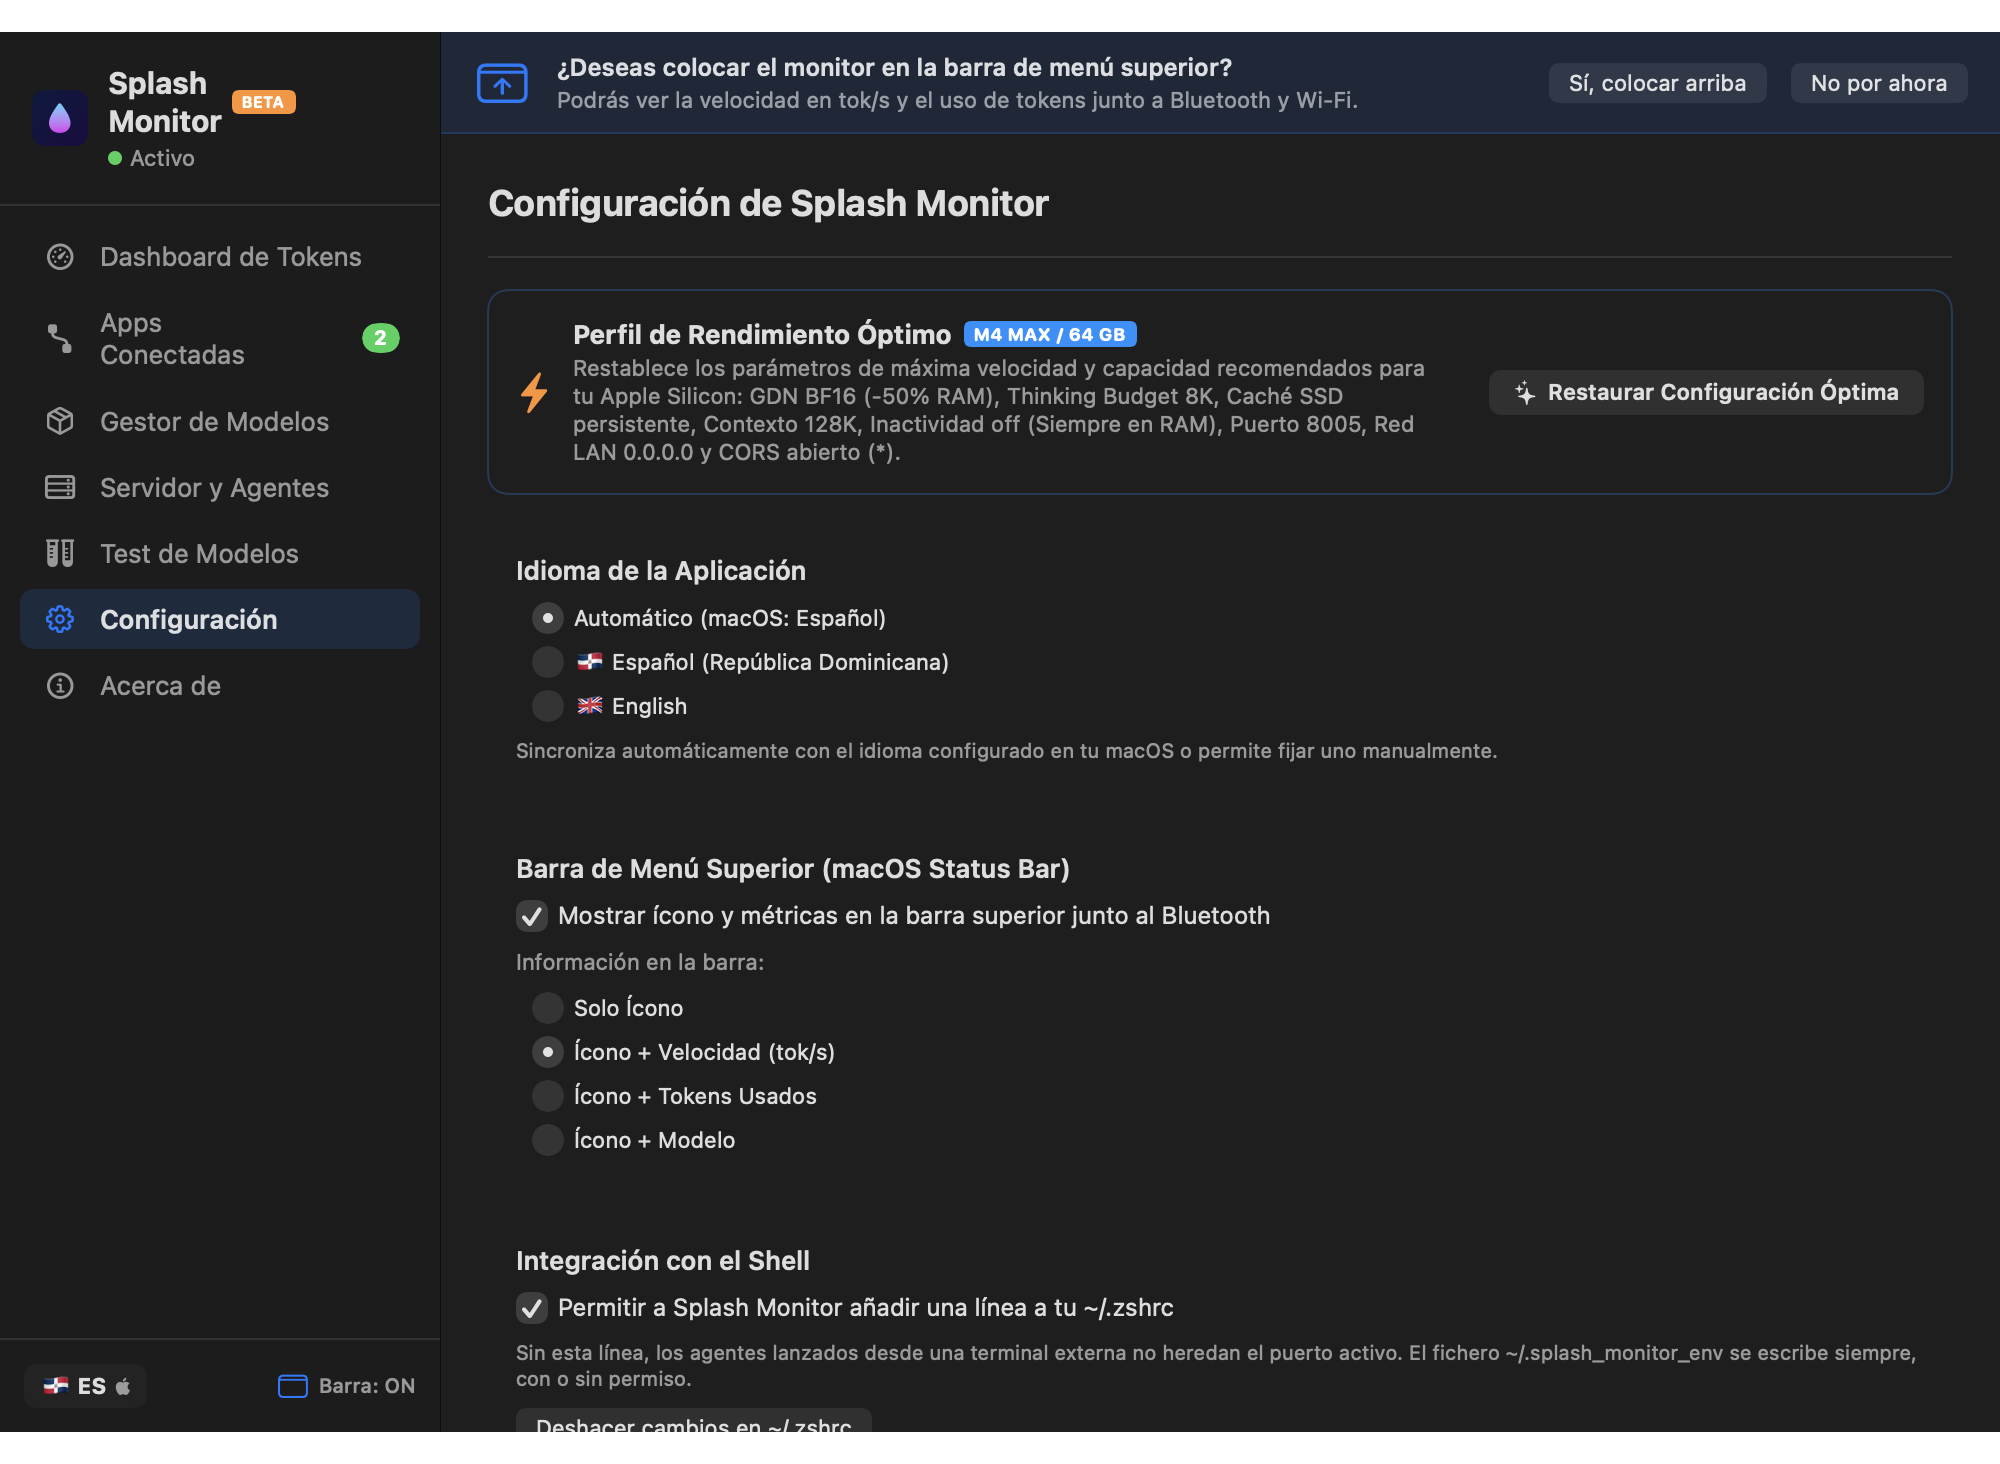
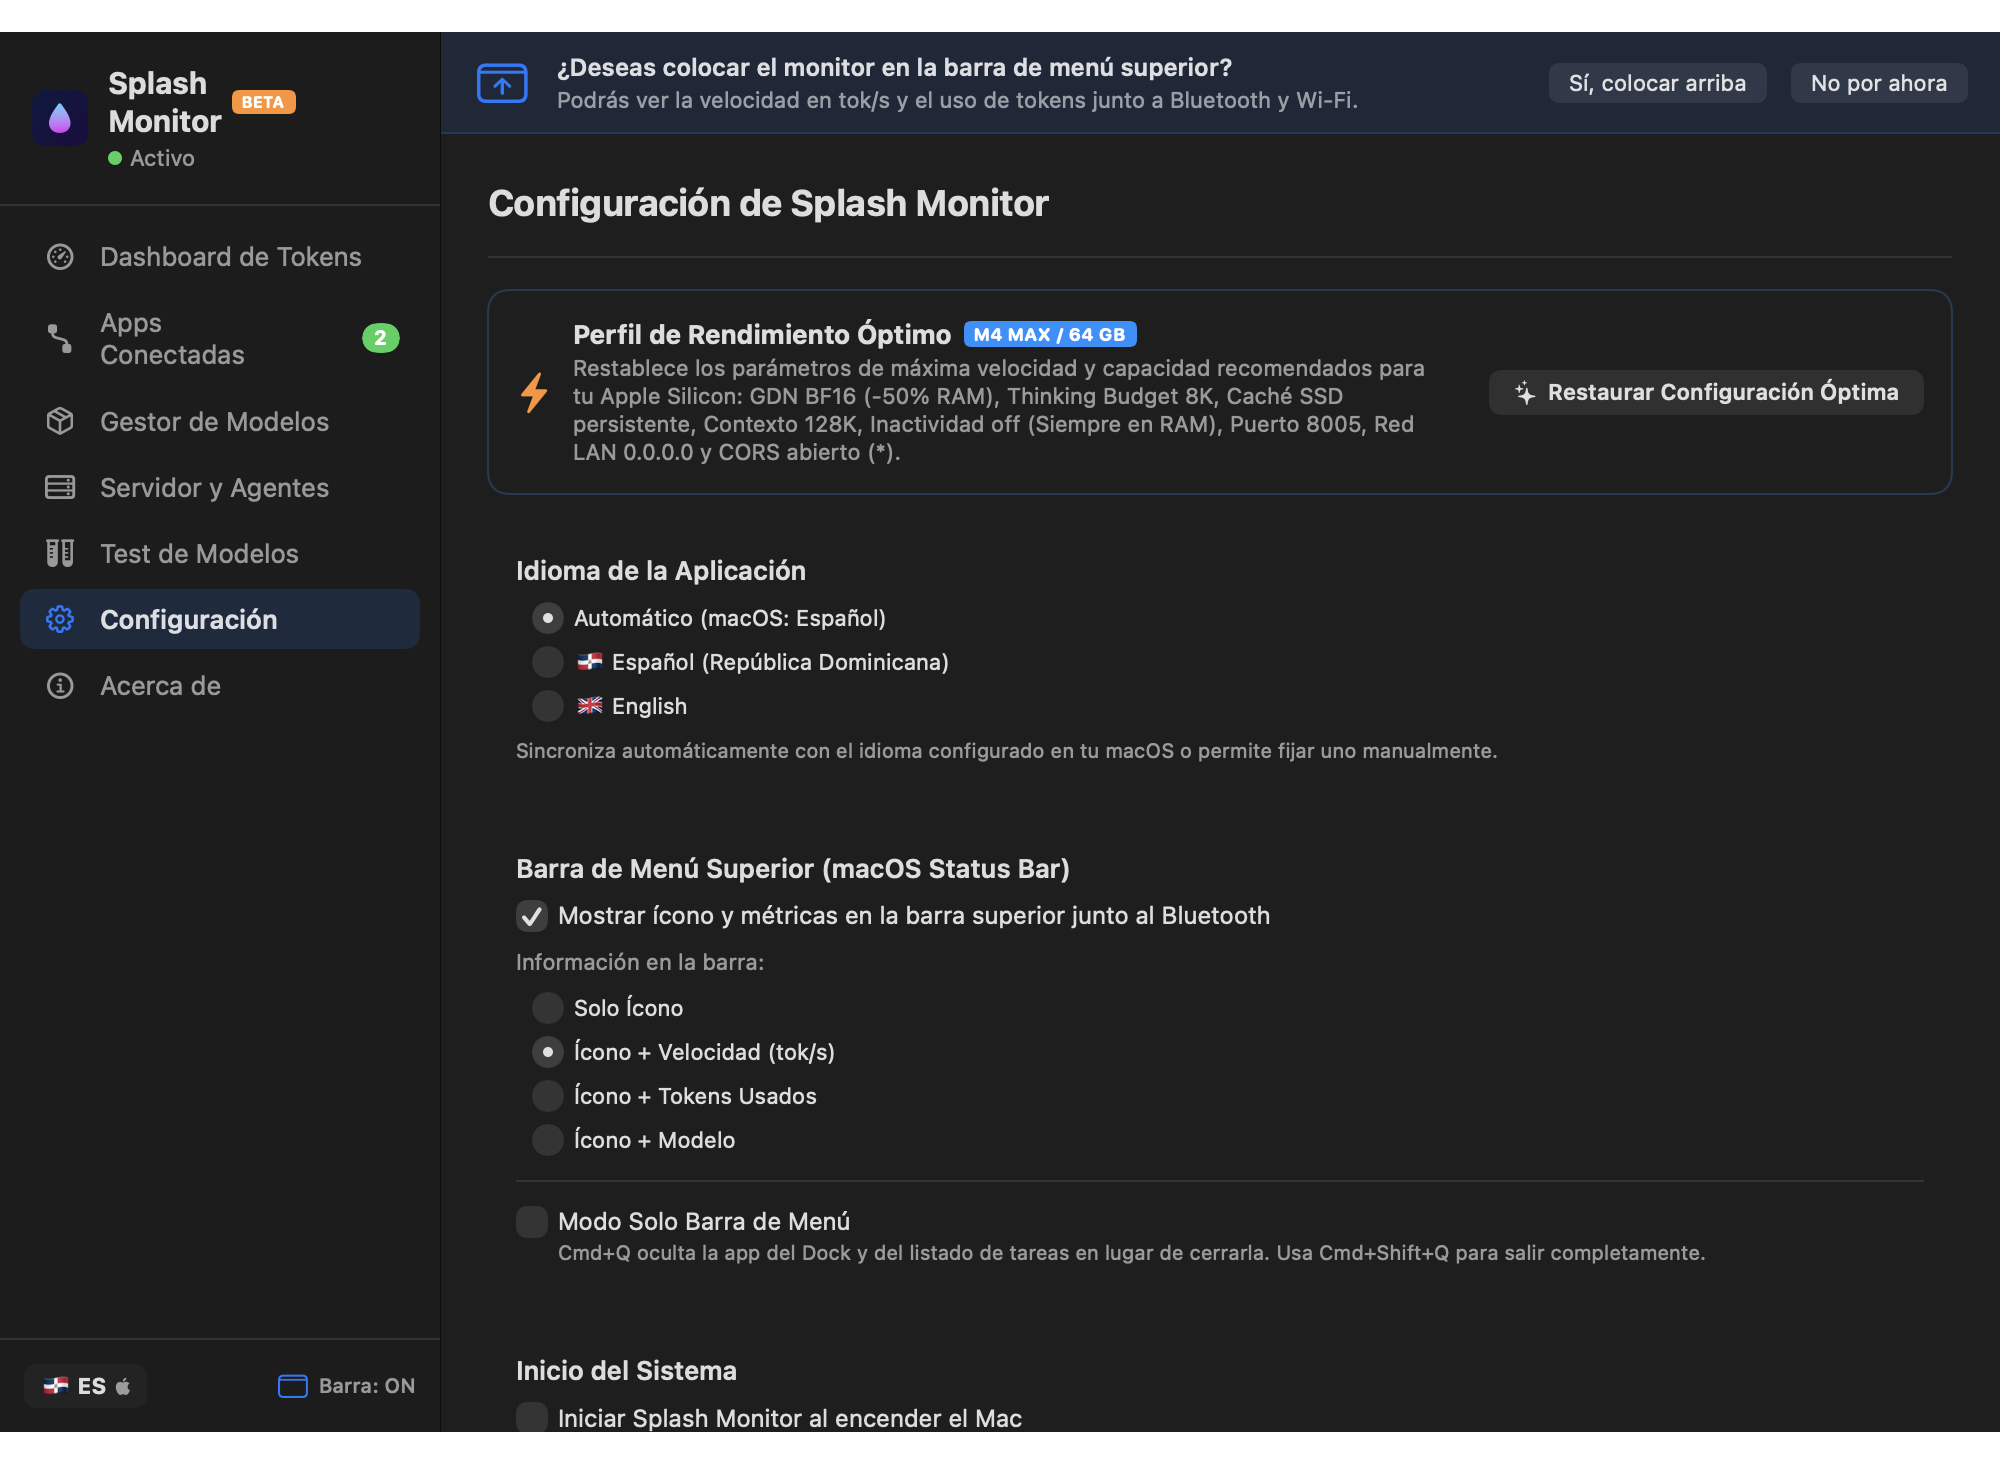
feat: notificaciones nativas de macOS e inicio automático al encender el Mac
- Agrega NotificationService con soporte para UNUserNotificationCenter:
  * Alertas de servidor activo con modelo y puerto.
  * Alertas de parada inesperada del motor Splash.
  * Alerta de presión de memoria unificada crítica del sistema.
  * Manejo seguro en entornos de prueba / CLI sin app bundle.
- Agrega AutoLaunchService utilizando SMAppService.mainApp (macOS 13+).
- Añade tarjetas de configuración en MainWindowView para activar/desactivar notificaciones y arranque al inicio de sesión.
- Agrega tests unitarios en NotificationAndAutoLaunchTests (100% pasando).

Changed region(s): [[0.248, 0.8299, 0.961, 0.9836]]

diff --git a/Sources/SplashMonitor/Services/NotificationService.swift b/Sources/SplashMonitor/Services/NotificationService.swift
@@ -1,0 +1,122 @@
+import Foundation
+import UserNotifications
+import AppKit
+
+/// Servicio centralizado de notificaciones locales de macOS para Splash Monitor.
+/// Maneja alertas de estado del servidor, avisos de modelos y presión de memoria crítica.
+@MainActor
+public final class NotificationService: ObservableObject {
+    public static let shared = NotificationService()
+    
+    private var center: UNUserNotificationCenter? {
+        guard let bundleId = Bundle.main.bundleIdentifier, !bundleId.isEmpty else { return nil }
+        if ProcessInfo.processInfo.processName.contains("xctest") ||
+           ProcessInfo.processInfo.environment["XCTestConfigurationFilePath"] != nil {
+            return nil
+        }
+        return UNUserNotificationCenter.current()
+    }
+    private let enabledKey = "systemNotificationsEnabled"
+    
+    @Published public var isNotificationsEnabled: Bool {
+        didSet {
+            UserDefaults.standard.set(isNotificationsEnabled, forKey: enabledKey)
+            if isNotificationsEnabled {
+                requestAuthorization()
+            }
+        }
+    }
+    
+    public init() {
+        // Habilitado por defecto si no ha sido configurado previamente
+        if UserDefaults.standard.object(forKey: enabledKey) == nil {
+            self.isNotificationsEnabled = true
+        } else {
+            self.isNotificationsEnabled = UserDefaults.standard.bool(forKey: enabledKey)
+        }
+        
+        if isNotificationsEnabled {
+            requestAuthorization()
+        }
+    }
+    
+    /// Solicita autorización para mostrar notificaciones al usuario si aún no está otorgada.
+    public func requestAuthorization() {
+        center?.requestAuthorization(options: [.alert, .sound, .badge]) { granted, error in
+            if let error = error {
+                print("⚠ [NotificationService] Error solicitando permisos: \(error.localizedDescription)")
+            }
+        }
+    }
+    
+    /// Envía una notificación cuando el servidor inicia exitosamente.
+    public func notifyServerStarted(model: String, port: Int) {
+        guard isNotificationsEnabled else { return }
+        
+        let content = UNMutableNotificationContent()
+        content.title = "Splash Monitor"
+        let isSpanish = Localization.shared.isSpanish
+        content.subtitle = isSpanish ? "Servidor Activo 🟢" : "Server Active 🟢"
+        
+        let modelShort = model.components(separatedBy: "/").last ?? model
+        let cleanModel = modelShort
+            .replacingOccurrences(of: "-Splash", with: "")
+            .replacingOccurrences(of: "-GGUF", with: "")
+        
+        content.body = isSpanish
+            ? "Modelo \(cleanModel) listo en puerto :\(port)."
+            : "Model \(cleanModel) ready on port :\(port)."
+        content.sound = .default
+        
+        postNotification(id: "splash.server.started", content: content)
+    }
+    
+    /// Envía una notificación cuando el servidor se detiene o se cae inesperadamente.
+    public func notifyServerStopped(reason: String? = nil, isUnexpected: Bool = false) {
+        guard isNotificationsEnabled else { return }
+        
+        let content = UNMutableNotificationContent()
+        content.title = "Splash Monitor"
+        let isSpanish = Localization.shared.isSpanish
+        
+        if isUnexpected {
+            content.subtitle = isSpanish ? "⚠ Servidor Detenido Inesperadamente" : "⚠ Server Stopped Unexpectedly"
+            content.body = reason ?? (isSpanish ? "El proceso de Splash se cerró de forma no programada." : "The Splash process terminated unexpectedly.")
+        } else {
+            content.subtitle = isSpanish ? "Servidor Detenido" : "Server Stopped"
+            content.body = reason ?? (isSpanish ? "El servidor Splash ha sido detenido." : "Splash server has been stopped.")
+        }
+        content.sound = isUnexpected ? .defaultCritical : .default
+        
+        postNotification(id: "splash.server.stopped", content: content)
+    }
+    
+    /// Envía una alerta cuando el sistema entra en presión de memoria crítica.
+    public func notifyMemoryPressureCritical() {
+        guard isNotificationsEnabled else { return }
+        
+        let content = UNMutableNotificationContent()
+        content.title = "Splash Monitor"
+        let isSpanish = Localization.shared.isSpanish
+        content.subtitle = isSpanish ? "🚨 Presión de Memoria Crítica" : "🚨 Critical Memory Pressure"
+        content.body = isSpanish
+            ? "macOS reporta agotamiento de memoria unificada. El motor Splash se puso en reposo preventivo."
+            : "macOS reports unified memory exhaustion. Splash engine entered preventive standby."
+        content.sound = .defaultCritical
+        
+        postNotification(id: "splash.memory.critical", content: content)
+    }
+    
+    private func postNotification(id: String, content: UNMutableNotificationContent) {
+        let request = UNNotificationRequest(
+            identifier: "\(id).\(Date().timeIntervalSince1970)",
+            content: content,
+            trigger: nil // Inmediato
+        )
+        center?.add(request) { error in
+            if let error = error {
+                print("⚠ [NotificationService] Fallo enviando notificación: \(error.localizedDescription)")
+            }
+        }
+    }
+}

diff --git a/Sources/SplashMonitor/Views/MainWindowView.swift b/Sources/SplashMonitor/Views/MainWindowView.swift
@@ -7,6 +7,8 @@ public struct MainWindowView: View {
     @AppStorage("showMenuBarIcon") private var showMenuBarIcon: Bool = true
     @AppStorage("hasAskedAboutMenuBar") private var hasAskedAboutMenuBar: Bool = false
     @AppStorage("menuBarOnlyMode") private var menuBarOnlyMode: Bool = false
+    @ObservedObject private var notifications = NotificationService.shared
+    @ObservedObject private var autoLaunch = AutoLaunchService.shared
     @State private var selectedSidebarItem: SidebarItem = .dashboard
     @State private var showOptimalAppliedFeedback: Bool = false
 
@@ -642,6 +644,53 @@ public struct MainWindowView: View {
                     }
                     .font(.system(size: 12))
                 }
+            }
+            .padding(14)
+            .background(Color(nsColor: .controlBackgroundColor))
+            .cornerRadius(10)
+            
+            // Inicio Automático al Encender el Mac (Launch at Login)
+            VStack(alignment: .leading, spacing: 8) {
+                Text(loc.isSpanish ? "Inicio del Sistema" : "System Startup")
+                    .font(.system(size: 13, weight: .semibold))
+                
+                Toggle(isOn: Binding(
+                    get: { autoLaunch.isEnabled },
+                    set: { autoLaunch.setEnabled($0) }
+                )) {
+                    VStack(alignment: .leading, spacing: 2) {
+                        Text(loc.isSpanish ? "Iniciar Splash Monitor al encender el Mac" : "Launch Splash Monitor at startup")
+                            .font(.system(size: 12))
+                        Text(loc.isSpanish
+                             ? "Ejecuta automáticamente la aplicación en segundo plano al iniciar sesión en macOS."
+                             : "Automatically launch the app in background when logging in to macOS.")
+                            .font(.system(size: 10))
+                            .foregroundColor(.secondary)
+                    }
+                }
+                .font(.system(size: 12))
+            }
+            .padding(14)
+            .background(Color(nsColor: .controlBackgroundColor))
+            .cornerRadius(10)
+            
+            // Notificaciones de macOS
+            VStack(alignment: .leading, spacing: 8) {
+                Text(loc.isSpanish ? "Notificaciones de macOS" : "macOS Notifications")
+                    .font(.system(size: 13, weight: .semibold))
+                
+                Toggle(isOn: $notifications.isNotificationsEnabled) {
+                    VStack(alignment: .leading, spacing: 2) {
+                        Text(loc.isSpanish ? "Alertas y notificaciones del sistema" : "System alerts and notifications")
+                            .font(.system(size: 12))
+                        Text(loc.isSpanish
+                             ? "Recibe avisos cuando el servidor se inicie, se detenga inesperadamente o si la memoria unificada del Mac entra en presión crítica."
+                             : "Receive alerts when the server starts, stops unexpectedly, or if unified memory enters critical pressure.")
+                            .font(.system(size: 10))
+                            .foregroundColor(.secondary)
+                    }
+                }
+                .font(.system(size: 12))
             }
             .padding(14)
             .background(Color(nsColor: .controlBackgroundColor))

diff --git a/Sources/SplashMonitor/Services/SplashService.swift b/Sources/SplashMonitor/Services/SplashService.swift
@@ -54,6 +54,9 @@ public class SplashService: ObservableObject {
     @Published public var status: SplashStatus? = nil
     @Published public var lastError: String? = nil
     
+    /// Rastreo de transiciones de estado para notificaciones del sistema macOS
+    private var previousRunningState: Bool? = nil
+    
     // Dependencies & CLI state
     @Published public var isSplashInstalled: Bool = false
     @Published public var splashVersion: String? = nil
@@ -635,6 +638,16 @@ public class SplashService: ObservableObject {
                 self.status = nil
             }
         }
+        
+        // Comprobar transiciones de estado para notificaciones macOS
+        if let wasRunning = previousRunningState {
+            if !wasRunning && self.isRunning {
+                NotificationService.shared.notifyServerStarted(model: self.activeModel, port: self.activePort)
+            } else if wasRunning && !self.isRunning && !self.isStartingServer {
+                NotificationService.shared.notifyServerStopped(reason: self.lastError, isUnexpected: true)
+            }
+        }
+        previousRunningState = self.isRunning
         
         // Scan active connected apps/clients
         await scanConnectedClients()
@@ -1447,6 +1460,7 @@ public class SplashService: ObservableObject {
     // MARK: - Server Control
     
     public func stopServerAsync() async {
+        previousRunningState = false
         await terminator.stopEngine(port: activePort, candidatePids: candidateStopPIDs())
         self.isRunning = false
         self.status = nil
@@ -2747,6 +2761,7 @@ extension SplashService: SystemMemoryPressureSentinelDelegate {
             if !isBusy {
                 print("⚠ [SplashService] Presión de memoria del sistema CRÍTICA detectada y servidor inactivo. Liberando memoria...")
                 self.memoryReliefNotice = "El motor Splash fue puesto en reposo para proteger la memoria del sistema macOS."
+                NotificationService.shared.notifyMemoryPressureCritical()
                 self.stopServer()
             } else {
                 print("⚠ [SplashService] Presión de memoria CRÍTICA detectada, pero hay operaciones en curso (prefilling: \(prefilling), decoding: \(decoding)).")

diff --git a/Tests/SplashMonitorTests/NotificationAndAutoLaunchTests.swift b/Tests/SplashMonitorTests/NotificationAndAutoLaunchTests.swift
@@ -1,0 +1,45 @@
+import XCTest
+@testable import SplashMonitor
+
+@MainActor
+final class NotificationAndAutoLaunchTests: XCTestCase {
+    
+    func testNotificationServiceToggleAndPersistence() {
+        let service = NotificationService.shared
+        let original = service.isNotificationsEnabled
+        
+        service.isNotificationsEnabled = false
+        XCTAssertFalse(service.isNotificationsEnabled)
+        XCTAssertFalse(UserDefaults.standard.bool(forKey: "systemNotificationsEnabled"))
+        
+        service.isNotificationsEnabled = true
+        XCTAssertTrue(service.isNotificationsEnabled)
+        XCTAssertTrue(UserDefaults.standard.bool(forKey: "systemNotificationsEnabled"))
+        
+        // Restore
+        service.isNotificationsEnabled = original
+    }
+    
+    func testNotificationServiceCallsAreSafeInTestEnvironment() {
+        let service = NotificationService.shared
+        
+        // Debe ejecutarse sin lanzar excepciones ni fallar aunque no haya bundle app activo en pruebas
+        service.notifyServerStarted(model: "incoai/Qwen3.6-35B-A3B-Splash", port: 8005)
+        service.notifyServerStopped(reason: "Test exit", isUnexpected: true)
+        service.notifyServerStopped(reason: "Clean stop", isUnexpected: false)
+        service.notifyMemoryPressureCritical()
+        
+        XCTAssertTrue(true, "Todas las llamadas a NotificationService deben completarse de forma segura")
+    }
+    
+    func testAutoLaunchServiceInitializationAndStatusCheck() {
+        let service = AutoLaunchService.shared
+        
+        // Verifica que la consulta a SMAppService no lance excepciones
+        service.refreshStatus()
+        _ = service.isEnabled
+        _ = service.lastError
+        
+        XCTAssertTrue(true, "AutoLaunchService debe instanciarse e introspeccionar el estado sin errores")
+    }
+}

diff --git a/Sources/SplashMonitor/Services/AutoLaunchService.swift b/Sources/SplashMonitor/Services/AutoLaunchService.swift
@@ -1,0 +1,47 @@
+import Foundation
+import ServiceManagement
+
+/// Servicio para gestionar el arranque automático de Splash Monitor al iniciar sesión en macOS.
+/// Utiliza `SMAppService.mainApp` nativo disponible en macOS 13+.
+@MainActor
+public final class AutoLaunchService: ObservableObject {
+    public static let shared = AutoLaunchService()
+    
+    @Published public private(set) var isEnabled: Bool = false
+    @Published public private(set) var lastError: String?
+    
+    public init() {
+        refreshStatus()
+    }
+    
+    /// Actualiza el estado actual consultando a macOS.
+    public func refreshStatus() {
+        if #available(macOS 13.0, *) {
+            isEnabled = (SMAppService.mainApp.status == .enabled)
+        }
+    }
+    
+    /// Activa o desactiva el inicio al arrancar el Mac.
+    @discardableResult
+    public func setEnabled(_ enable: Bool) -> Bool {
+        if #available(macOS 13.0, *) {
+            do {
+                if enable {
+                    try SMAppService.mainApp.register()
+                } else {
+                    try SMAppService.mainApp.unregister()
+                }
+                self.lastError = nil
+                refreshStatus()
+                return true
+            } catch {
+                let errorMsg = error.localizedDescription
+                print("⚠ [AutoLaunchService] Error configurando Launch at Login: \(errorMsg)")
+                self.lastError = errorMsg
+                refreshStatus()
+                return false
+            }
+        }
+        return false
+    }
+}
